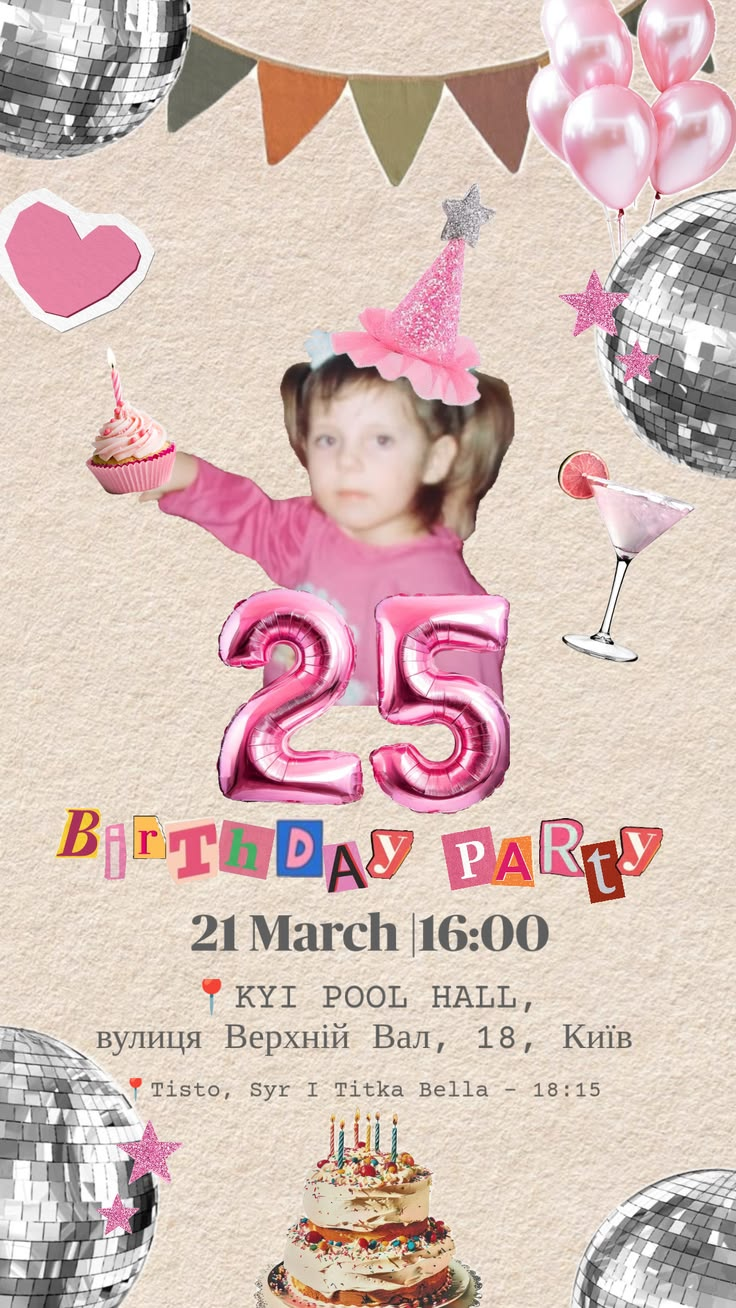
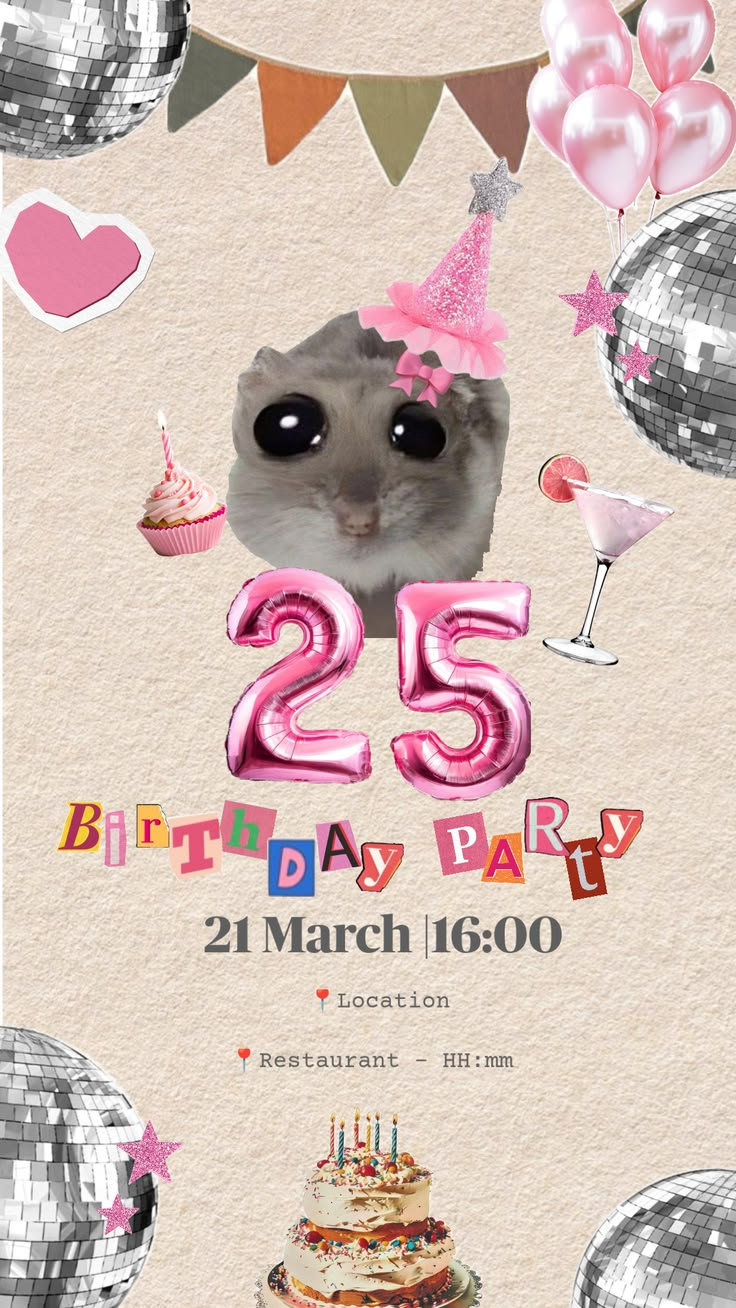
Updated images

diff --git a/src/App.vue b/src/App.vue
@@ -54,7 +54,7 @@ const {
       </div>
 
       <div class="footer code-title">
-        <a class="code-title" href="https://rewish.io/JaEAAA/wishes?access_code=8b7v95VD9izCoL">
+        <a class="code-title" href="https://rewish.io">
           Wishlist by LeoMorgan
         </a>
         <span>or anything else you decide.</span>
@@ -84,7 +84,10 @@ const {
               bottom: (43 + w.yOffset) + 'px', }">
           <div class="walker-avatar"
                :style="{ borderColor: w.color, boxShadow: `3px 3px 0 ${w.color}` }">
-            <img style="height: 60px" :src="w.photo" :alt="w.name">
+            <div
+                class="walker-avatar"
+                :style="{ borderColor: w.color, boxShadow: `3px 3px 0 ${w.color}` }"
+            >{{ w.emoji }}</div>
           </div>
           <div class="walker-legs">
             <div class="leg" :style="{ background: w.color }"/>
@@ -120,7 +123,7 @@ const {
         <div class="invite-card">
           <div class="tape" style="top:-8px;left:20px;transform:rotate(-8deg)"></div>
           <div class="tape" style="top:-8px;right:20px;transform:rotate(6deg)"></div>
-          <a href="https://maps.app.goo.gl/yEMkRFGqPKQxLgNm7">
+          <a href="https://maps.app.goo.gl/SuFt1BsaXVuA2iYe7">
             <img src="/invitation.png" alt="Invite" class="invite-image">
           </a>
         </div>

diff --git a/src/composables/useInvite.ts b/src/composables/useInvite.ts
@@ -2,12 +2,12 @@ import { ref } from 'vue';
 
 export function useInvite() {
     const GUEST_LIST = {
-        'VLAD25': {name: 'Влад', photo: './people/vlad.png', emoji: '🦄', color: '#0079bd', sex: 'male'},
-        'MISH25': {name: 'Міш', photo: './people/mish.png', emoji: '🌸', color: '#a5f3fc', sex: 'male'},
-        'MASH25': {name: 'Маш', photo: './people/mash.png', emoji: '🌸', color: '#cb0b78', sex: 'female'},
-        'DANYA25': {name: 'Даня', photo: './people/danya.png', emoji: '🌺', color: '#bbe5f7', sex: 'male'},
-        'MASHAP25': {name: 'Марія', photo: './people/maria.png', emoji: '⭐', color: '#fd8ae6', sex: 'female'},
-        'DASHA25': {name: 'Даша', photo: './people/dasha.png', emoji: '🎸', color: '#8c7bff', sex: 'female'}
+        'VLAD25': {name: 'Влад', emoji: '🦄', color: '#0079bd', sex: 'male'},
+        'MISH25': {name: 'Міш', emoji: '🌸', color: '#a5f3fc', sex: 'male'},
+        'MASH25': {name: 'Маш', emoji: '🌸', color: '#cb0b78', sex: 'female'},
+        'DANYA25': {name: 'Даня', emoji: '🌺', color: '#bbe5f7', sex: 'male'},
+        'MASHAP25': {name: 'Марія', emoji: '⭐', color: '#fd8ae6', sex: 'female'},
+        'DASHA25': {name: 'Даша', emoji: '🎸', color: '#8c7bff', sex: 'female'}
     }
 
     const WALKERS = Object.values(GUEST_LIST);

diff --git a/src/assets/main.css b/src/assets/main.css
@@ -255,8 +255,7 @@
 .invite-screen {
     overflow-y: auto;
     align-items: center;
-    justify-content: flex-start;
-    padding: 40px 10px;
+    justify-content: center;
 }
 
 .invite-card {
@@ -274,7 +273,7 @@
 }
 
 .invite-image {
-    max-width: 465px;
+    max-width: 450px;
 }
 
 .tape {
